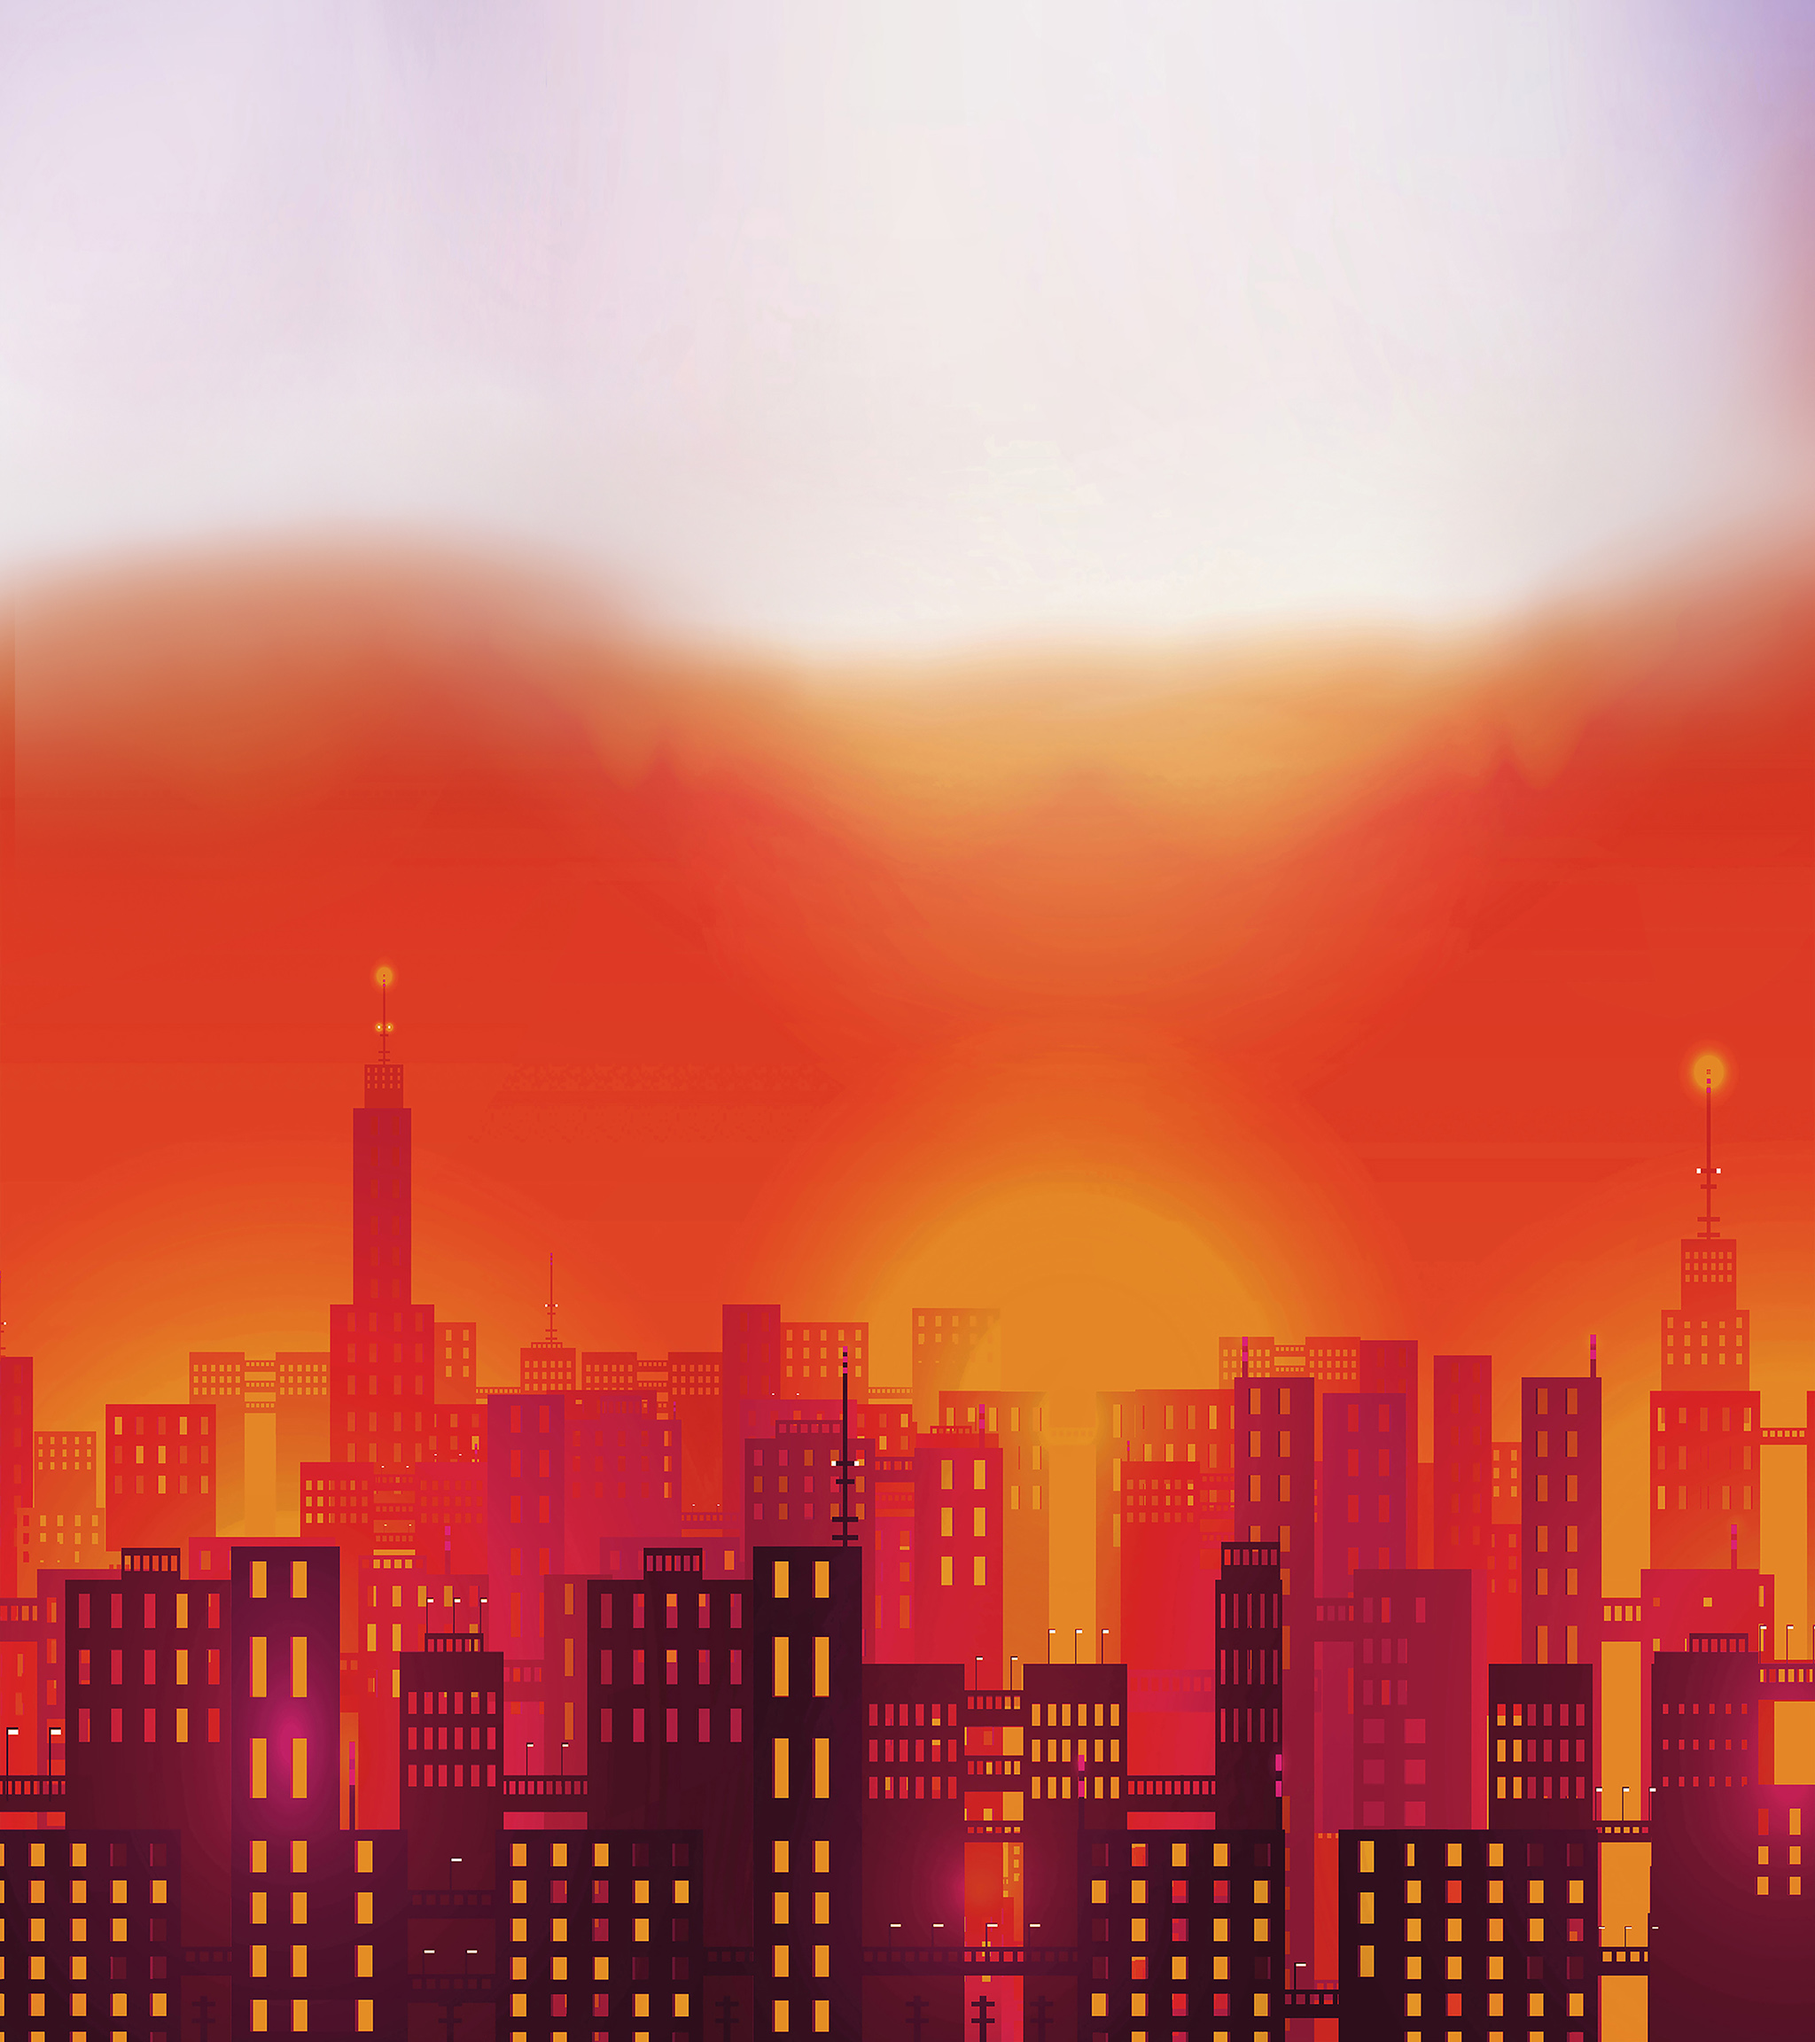
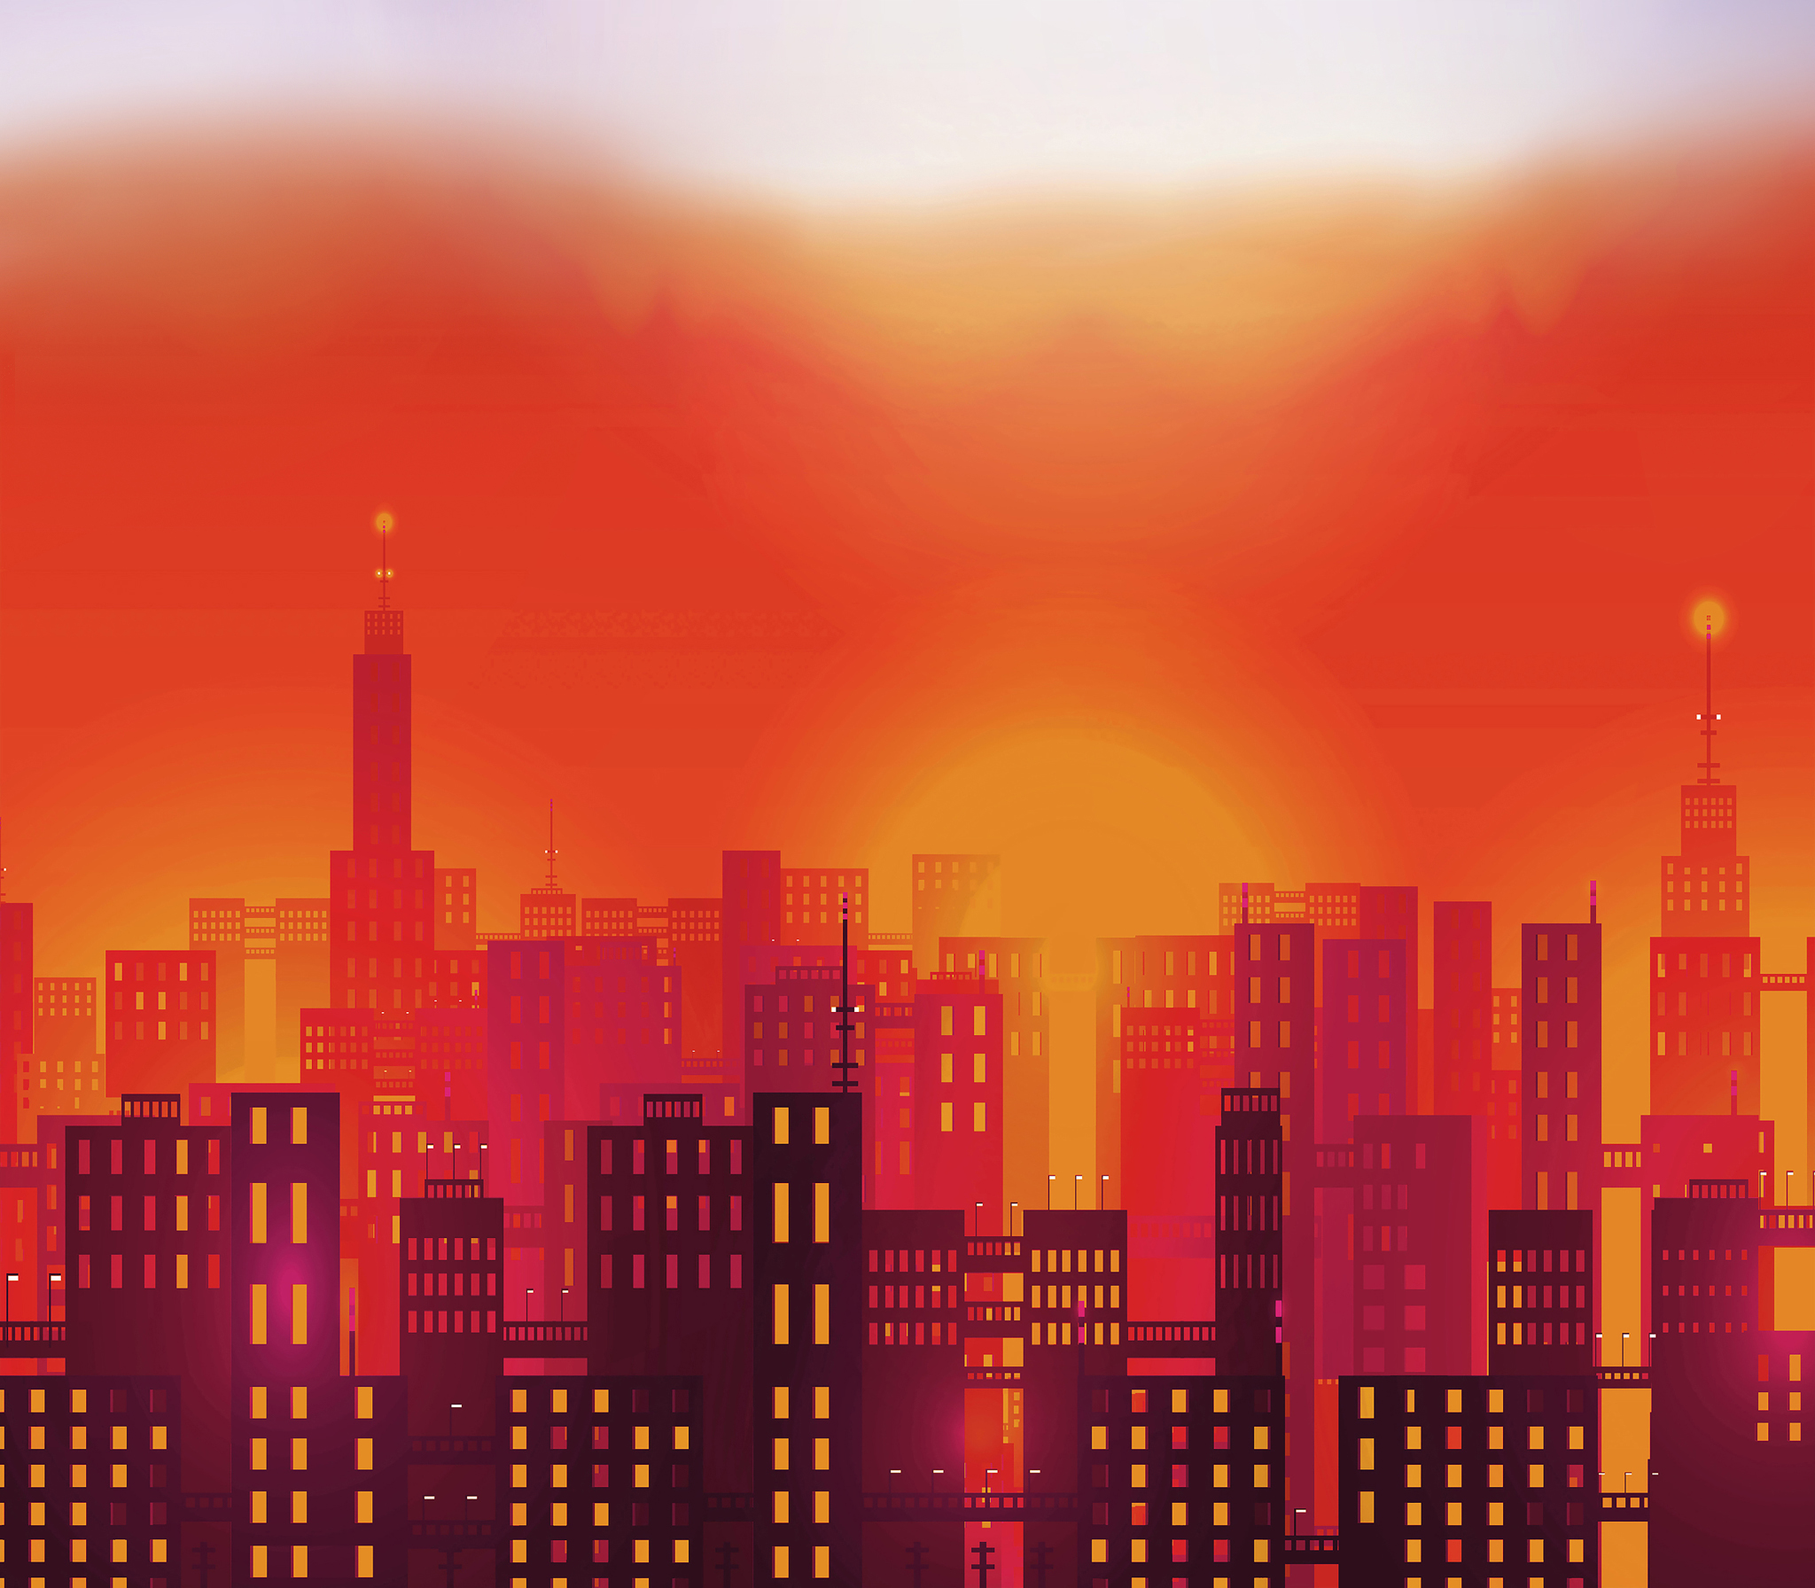
"bgHandler v2.1, starting to implement constantly upward moving backgrounds 3 cities per wave. screen size increased to 1600 virtualized pixels height."

diff --git a/core/src/com/kredatus/flockblockers/Handlers/AssetHandler.java b/core/src/com/kredatus/flockblockers/Handlers/AssetHandler.java
@@ -14,6 +14,7 @@ import com.badlogic.gdx.utils.Array;
 
 import java.io.File;
 import java.util.ArrayList;
+import java.util.Collections;
 import java.util.Random;
 
 /**
@@ -37,7 +38,8 @@ public class AssetHandler {
             bgPhoenixtexture, bgPhoenixtexture2, bgAcidtexture,bgAcidtexture2, bgFiretexture, bgFiretexture2, bgNighttexture, bgNighttexture2,bgGoldtexture, bgGoldtexture2,
             bgLunartexture, bgLunartexture2,bgThundertexture, bgThundertexture2,bgWatertexture, bgWatertexture2,horflipbgtexture, vertflipbgtexture, horvertflipbgtexture,
             boosttexture,boostdown,logo, playdown, play, credits, creditsdown, exit, exitdown, retry, retrydown, ready, readydown, story, storydown, instr, instrdown, menu,
-            menudown, score, rating, topscore, youvedied, newHighscore, creditsbg, deathmenubg, gliderbg, instrbg, readybg, next, nextdown, worldStabilized, coinSymbol, reticle;
+            menudown, score, rating, topscore, youvedied, newHighscore, creditsbg, deathmenubg, gliderbg, instrbg, readybg, next, nextdown, worldStabilized, coinSymbol, reticle,
+            bgCloudSeparatorTexture, bgCloudSeparatorTexture2;
 
     public static ArrayList<Vector3> boostcoords;
     public static ArrayList<TextureRegion> bgList;
@@ -204,90 +206,82 @@ public class AssetHandler {
         readybg.flip(false, true);*/
 
 
-        //if button click: choose this map, load this list of locations to randomize boosts at *************************************
-        bgList = new ArrayList<TextureRegion>();
+
+
+        Texture bgCloudSeparator= new Texture(Gdx.files.internal("backgrounds"+File.separator+"levels"+File.separator+"halfCloudSeparator.jpg"));
+        bgCloudSeparator.setFilter(Texture.TextureFilter.Nearest, Texture.TextureFilter.Nearest);
+        bgCloudSeparatorTexture = new TextureRegion(bgCloudSeparator, bgCloudSeparator.getWidth(), bgCloudSeparator.getHeight());
+        bgCloudSeparatorTexture2= new TextureRegion(bgCloudSeparator, bgCloudSeparator.getWidth(), bgCloudSeparator.getHeight());
+        bgCloudSeparatorTexture2.flip(false,true);
 
 
         bgPhoenix = new Texture(Gdx.files.internal("backgrounds"+File.separator+"levels"+File.separator+"bgPhoenix2.jpg"));
         bgPhoenix.setFilter(Texture.TextureFilter.Nearest, Texture.TextureFilter.Nearest);
         bgPhoenixtexture = new TextureRegion(bgPhoenix, bgPhoenix.getWidth(), bgPhoenix.getHeight());
         bgPhoenixtexture.flip(false, true);
-        bgList.add(bgPhoenixtexture);
-
         bgPhoenixtexture2 = new TextureRegion(bgPhoenix, bgPhoenix.getWidth(), bgPhoenix.getHeight());
-        bgList.add(bgPhoenixtexture2);
 
 
         bgThunder = new Texture(Gdx.files.internal("backgrounds"+File.separator+"levels"+File.separator+"bgThunder2.jpg"));
         bgThunder.setFilter(Texture.TextureFilter.Nearest, Texture.TextureFilter.Nearest);
         bgThundertexture = new TextureRegion(bgThunder, bgThunder.getWidth(), bgThunder.getHeight());
         bgThundertexture.flip(false, true);
-        bgList.add(bgThundertexture);
-
         bgThundertexture2 = new TextureRegion(bgThunder, bgThunder.getWidth(), bgThunder.getHeight());
-        bgList.add(bgThundertexture2);
 
 
         bgWater = new Texture(Gdx.files.internal("backgrounds"+File.separator+"levels"+File.separator+"bgWater2.jpg"));
         bgWater.setFilter(Texture.TextureFilter.Nearest, Texture.TextureFilter.Nearest);
         bgWatertexture = new TextureRegion(bgWater, bgWater.getWidth(), bgWater.getHeight());
         bgWatertexture.flip(false, true);
-        bgList.add(bgWatertexture);
-
         bgWatertexture2 = new TextureRegion(bgWater, bgWater.getWidth(), bgWater.getHeight());
-        bgList.add(bgWatertexture2);
 
 
         bgFire = new Texture(Gdx.files.internal("backgrounds"+File.separator+"levels"+File.separator+"bgFire2.jpg"));
         bgFire.setFilter(Texture.TextureFilter.Nearest, Texture.TextureFilter.Nearest);
         bgFiretexture = new TextureRegion(bgFire, bgFire.getWidth(), bgFire.getHeight());
         bgFiretexture.flip(false, true);
-        bgList.add(bgFiretexture);
-
         bgFiretexture2 = new TextureRegion(bgFire, bgFire.getWidth(), bgFire.getHeight());
-        bgList.add(bgFiretexture2);
 
 
         bgAcid = new Texture(Gdx.files.internal("backgrounds"+File.separator+"levels"+File.separator+"bgAcid2.jpg"));
         bgAcid.setFilter(Texture.TextureFilter.Nearest, Texture.TextureFilter.Nearest);
         bgAcidtexture = new TextureRegion(bgAcid, bgAcid.getWidth(), bgAcid.getHeight());
         bgAcidtexture.flip(false, true);
-        bgList.add(bgAcidtexture);
-
         bgAcidtexture2 = new TextureRegion(bgAcid, bgAcid.getWidth(), bgAcid.getHeight());
-        bgList.add(bgAcidtexture2);
 
 
         bgNight = new Texture(Gdx.files.internal("backgrounds"+File.separator+"levels"+File.separator+"bgNight2.jpg"));
         bgNight.setFilter(Texture.TextureFilter.Nearest, Texture.TextureFilter.Nearest);
         bgNighttexture = new TextureRegion(bgNight, bgNight.getWidth(), bgNight.getHeight());
         bgNighttexture.flip(false, true);
-        bgList.add(bgNighttexture);
-
         bgNighttexture2 = new TextureRegion(bgNight, bgNight.getWidth(), bgNight.getHeight());
-        bgList.add(bgNighttexture2);
 
 
         bgLunar = new Texture(Gdx.files.internal("backgrounds"+File.separator+"levels"+File.separator+"bgLunar2.jpg"));
         bgLunar.setFilter(Texture.TextureFilter.Nearest, Texture.TextureFilter.Nearest);
         bgLunartexture = new TextureRegion(bgLunar, bgLunar.getWidth(), bgLunar.getHeight());
         bgLunartexture.flip(false, true);
-        bgList.add(bgLunartexture);
-
         bgLunartexture2 = new TextureRegion(bgLunar, bgLunar.getWidth(), bgLunar.getHeight());
-        bgList.add(bgLunartexture2);
 
 
         bgGold = new Texture(Gdx.files.internal("backgrounds"+File.separator+"levels"+File.separator+"bgGold2.jpg"));
         bgGold.setFilter(Texture.TextureFilter.Nearest, Texture.TextureFilter.Nearest);
         bgGoldtexture = new TextureRegion(bgGold, bgGold.getWidth(), bgGold.getHeight());
         bgGoldtexture.flip(false, true);
-        bgList.add(bgGoldtexture);
-
-
         bgGoldtexture2 = new TextureRegion(bgGold, bgGold.getWidth(), bgGold.getHeight());
-        bgList.add(bgGoldtexture2);
-/*
+
+
+        bgList = new ArrayList<TextureRegion>();    //3 times each to ensure speedy movement upwards, slower thru cities faster thru clouds
+        Collections.addAll(bgList, bgPhoenixtexture, bgPhoenixtexture2, bgCloudSeparatorTexture, bgCloudSeparatorTexture2, bgPhoenixtexture, bgPhoenixtexture2, bgCloudSeparatorTexture, bgCloudSeparatorTexture2, bgPhoenixtexture, bgPhoenixtexture2, bgCloudSeparatorTexture, bgCloudSeparatorTexture2,
+                bgThundertexture, bgThundertexture2, bgCloudSeparatorTexture, bgCloudSeparatorTexture2, bgThundertexture, bgThundertexture2, bgCloudSeparatorTexture, bgCloudSeparatorTexture2, bgThundertexture, bgThundertexture2, bgCloudSeparatorTexture, bgCloudSeparatorTexture2,
+                bgWatertexture, bgWatertexture2, bgCloudSeparatorTexture, bgCloudSeparatorTexture2, bgWatertexture, bgWatertexture2, bgCloudSeparatorTexture, bgCloudSeparatorTexture2, bgWatertexture, bgWatertexture2, bgCloudSeparatorTexture, bgCloudSeparatorTexture2,
+                bgFiretexture, bgFiretexture2, bgCloudSeparatorTexture, bgCloudSeparatorTexture2, bgFiretexture, bgFiretexture2, bgCloudSeparatorTexture, bgCloudSeparatorTexture2, bgFiretexture, bgFiretexture2, bgCloudSeparatorTexture, bgCloudSeparatorTexture2,
+                bgAcidtexture, bgAcidtexture2, bgCloudSeparatorTexture, bgCloudSeparatorTexture2, bgAcidtexture, bgAcidtexture2, bgCloudSeparatorTexture, bgCloudSeparatorTexture2, bgAcidtexture, bgAcidtexture2, bgCloudSeparatorTexture, bgCloudSeparatorTexture2,
+                bgNighttexture, bgNighttexture2, bgCloudSeparatorTexture, bgCloudSeparatorTexture2, bgNighttexture, bgNighttexture2, bgCloudSeparatorTexture, bgCloudSeparatorTexture2, bgNighttexture, bgNighttexture2, bgCloudSeparatorTexture, bgCloudSeparatorTexture2,
+                bgLunartexture, bgLunartexture2, bgCloudSeparatorTexture, bgCloudSeparatorTexture2, bgLunartexture, bgLunartexture2, bgCloudSeparatorTexture, bgCloudSeparatorTexture2, bgLunartexture, bgLunartexture2, bgCloudSeparatorTexture, bgCloudSeparatorTexture2,
+                bgGoldtexture, bgGoldtexture2, bgCloudSeparatorTexture, bgCloudSeparatorTexture2, bgGoldtexture, bgGoldtexture2, bgCloudSeparatorTexture, bgCloudSeparatorTexture2, bgGoldtexture, bgGoldtexture2, bgCloudSeparatorTexture, bgCloudSeparatorTexture2);
+
+                /*
         coordslistsize=22;
         boostnumber=20; //14 boosts for 2 map sizes: 50% random chance of each boost being rendered in its coordinate
         ArrayList<Vector3> boostcoordslist = new ArrayList<Vector3>();      //there will be 7 variables for this map

diff --git a/core/src/com/kredatus/flockblockers/Handlers/BgHandler.java b/core/src/com/kredatus/flockblockers/Handlers/BgHandler.java
@@ -42,8 +42,8 @@ public class BgHandler {
     int h = AssetHandler.boost.getHeight();
     //private Boost tempBoost;
     //private int orgBoostnumber = AssetHandler.getBoostnumber(), coordslistsize=AssetHandler.getcoordslistsize();
-    public int bgw = AssetHandler.bgPhoenix.getWidth();
-    public int bgh = AssetHandler.bgPhoenix.getHeight();
+    public int bgw;
+    public int bgh, separatorHeight;    //height of separator is different, and there are 2 combined with eachother
     float x, y, width, height;
     public int bgNumber;
 
@@ -62,8 +62,8 @@ public class BgHandler {
         horiz.setValue(0);
         vert.setValue(0);
         shake.setValue(0);
-        background = new Background(horiz.getValue(), vert.getValue(), bgw, bgh, AssetHandler.bgList.get(bgNumber++));
-        background2 = new Background(horiz.getValue(), background.getTailY(), bgw, bgh, AssetHandler.bgList.get(bgNumber++));
+        background = new Background(horiz.getValue(), vert.getValue(), AssetHandler.bgList.get(bgNumber).getRegionWidth(), AssetHandler.bgList.get(bgNumber).getRegionHeight(), AssetHandler.bgList.get(bgNumber++));
+        background2 = new Background(horiz.getValue(), background.getTailY(), AssetHandler.bgList.get(bgNumber).getRegionWidth(), AssetHandler.bgList.get(bgNumber).getRegionHeight(), AssetHandler.bgList.get(bgNumber++));
 
         //this.manager= SplashScreen.getManager();
         //System.out.println("vert.getValue() " + vert.getValue());
@@ -267,7 +267,7 @@ public class BgHandler {
             if (background.isScrolledDown()) {
                     //System.out.println("reset 1 to 2 +bgh, 1 is "+background.y+", 1 bgh is "+background.getHeight());
                     background.reset(background2.getTailY(), bgNumber++);
-                    background2.addedY = bgh;
+                    background2.addedY = background.height;
             }
         } else {
             // Update our objects (do phoenixBird intro)

diff --git a/core/src/com/kredatus/flockblockers/GameObjects/Background.java b/core/src/com/kredatus/flockblockers/GameObjects/Background.java
@@ -14,7 +14,7 @@ public class Background {
 
     public float x, y;
     protected int width;
-    protected int height;
+    public int height;
     private boolean isScrolledDown;
     public TextureRegion texture;
     public float addedY;
@@ -45,6 +45,8 @@ public class Background {
     public void reset(float newY, int bgNumber) {
         y = newY;
         texture= AssetHandler.bgList.get(bgNumber);
+        width=texture.getRegionWidth();
+        height=texture.getRegionHeight();
         isScrolledDown = false;
     }
 

diff --git a/core/src/com/kredatus/flockblockers/Handlers/BirdHandler.java b/core/src/com/kredatus/flockblockers/Handlers/BirdHandler.java
@@ -32,7 +32,7 @@ public class BirdHandler {
     //public static String[] birdOrderList=     {"pB","tB","wB","fB","aB","nB","lB","gB"};
     public final int[] birdNumberList=          { 1,   20,  20,  25,  10,  8,   7,   3  };
     private float[] spawnIntervals=new float[8];
-    public int waveTypeCnt=3;
+    public int waveTypeCnt=0;
     public TimerTask task;
     public Timer timer;
     public final float duration = 40;

diff --git a/core/src/com/kredatus/flockblockers/Handlers/GameHandler.java b/core/src/com/kredatus/flockblockers/Handlers/GameHandler.java
@@ -36,7 +36,7 @@ public class GameHandler implements Screen {
     public GameHandler() {
         float screenWidth = Gdx.graphics.getWidth();
         float screenHeight = Gdx.graphics.getHeight();
-        camHeight=1280;
+        camHeight=1600;
         camWidth= (int) (camHeight* (screenWidth/screenHeight)) ;
         //System.out.println("width: "+camWidth);
         midPointY = camHeight/2;
